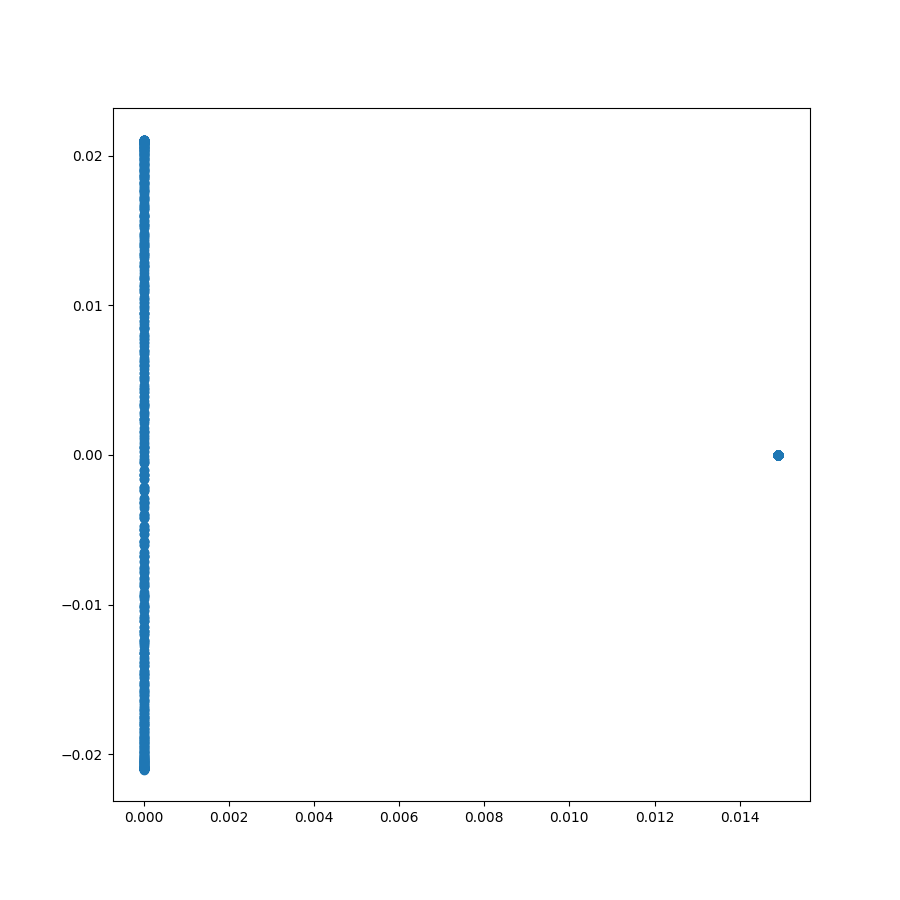
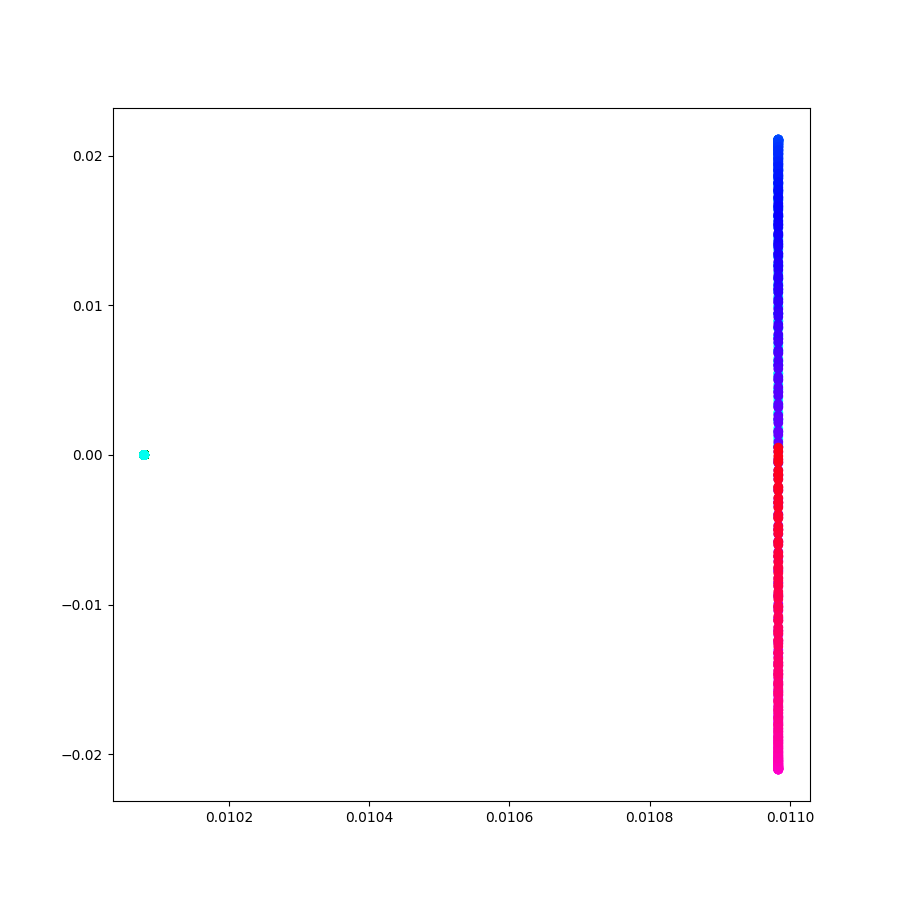
Co-authored-by: ekatsym <ekatsym@users.noreply.github.com> Co-authored-by: haskey1236 <haskey1236@users.noreply.github.com>

diff --git a/src/savepic.py b/src/savepic.py
@@ -1,14 +1,15 @@
 import matplotlib.pyplot as plt
+import numpy as np
 
 def savepic3D(x, y, z, picname, elev, azim):
     fig = plt.figure(figsize=(9, 9), facecolor="w")
     ax = fig.add_subplot(111, projection="3d")
-    ax.scatter(x, y, z)
+    ax.scatter(x, y, z, c = np.linspace(start=0.0, stop = 1.0, num = len(x)), cmap="hsv")
     ax.view_init(elev = elev, azim = azim)
     plt.savefig(picname)
 
 def savepic2D(x, y, picname):
     fig = plt.figure(figsize=(9, 9), facecolor="w")
     ax = fig.add_subplot(111)
-    ax.scatter(x, y)
+    ax.scatter(x, y, c = np.linspace(start=0.0, stop = 1.0, num = len(x)), cmap="hsv")
     plt.savefig(picname)

diff --git a/soudan.md b/soudan.md
@@ -27,3 +27,12 @@
 * Hoph絡み目を追加してみた。
   * 非連結な警告が出た。
   * 出力画像が不思議なことになっている。
+* いつか
+  * 定数関数の個数を数えて、そこまでを捨てるようにする。
+
+## 2024-03-28
+* 点に色をつけて、奥行きを分かりたい。
+* 結び目をもう1つだけ追加。
+  * 8の字結び目
+* 連結成分3つならどうか？
+* 型ヒント
